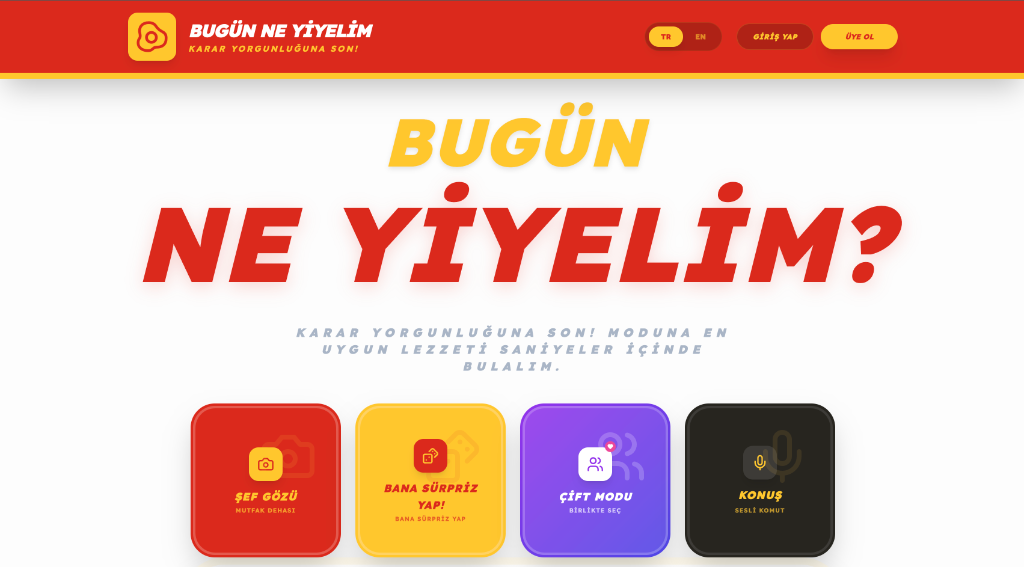
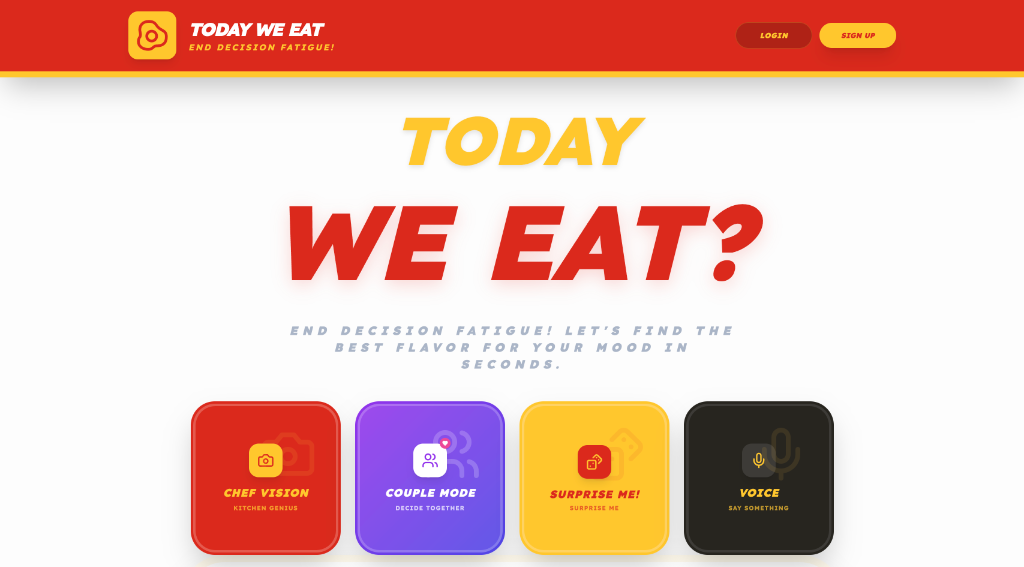
Update Bugun Ne Yiyelim assets and move to bottom

diff --git a/projects.html b/projects.html
@@ -114,98 +114,7 @@
             <p class="text-gray-400 max-w-xl mx-auto">CASE STUDIES</p>
         </div>
 
-        <!-- FEATURED PROJECT: Bugün Ne Yiyelim? -->
-        <div class="w-full max-w-6xl text-center md:text-left mb-24">
-            <div class="grid grid-cols-1 md:grid-cols-12 gap-6">
 
-                <!-- Project Info & Case Study -->
-                <div
-                    class="order-2 md:order-1 col-span-1 md:col-span-5 crystal-panel p-8 md:p-10 rounded-3xl flex flex-col justify-between hover:border-taurusGold/40 transition-colors duration-300 group relative overflow-hidden">
-                    <!-- Decorative Background -->
-                    <div
-                        class="absolute top-0 right-0 w-40 h-40 bg-red-500/5 blur-[60px] rounded-full group-hover:bg-red-500/10 transition-all duration-500">
-                    </div>
-
-                    <div>
-                        <h3 class="font-display text-2xl md:text-3xl font-bold text-white mb-2 leading-tight">
-                            Bugün Ne <br> Yiyelim?
-                        </h3>
-                        <p class="text-gray-500 text-xs font-bold uppercase tracking-wider mb-6">AI-Powered Food Decider
-                        </p>
-
-                        <p class="text-gray-400 text-sm leading-relaxed mb-8">
-                            Karar yorgunluğuna son! Moduna en uygun lezzeti saniyeler içinde bulalim.
-                        </p>
-
-                        <!-- Case Study Mini-Grid -->
-                        <div class="space-y-4 border-t border-white/5 pt-6">
-                            <div>
-                                <h4 class="text-taurusGold text-[10px] font-bold uppercase mb-1">Challenge</h4>
-                                <p class="text-gray-500 text-[11px] leading-snug">Overcoming daily decision fatigue when
-                                    choosing what to eat.</p>
-                            </div>
-                            <div>
-                                <h4 class="text-taurusGold text-[10px] font-bold uppercase mb-1">Solution</h4>
-                                <p class="text-gray-500 text-[11px] leading-snug">AI-driven recommendation engine
-                                    personalized to user mood.</p>
-                            </div>
-                            <div>
-                                <h4 class="text-taurusGold text-[10px] font-bold uppercase mb-1">Result</h4>
-                                <p class="text-gray-500 text-[11px] leading-snug">Instant, stress-free meal decisions
-                                    tailored to the moment.</p>
-                            </div>
-                        </div>
-                    </div>
-
-                    <div class="mt-8 pt-6 border-t border-white/5">
-                        <a href="#"
-                            class="inline-flex items-center gap-2 text-white text-xs font-bold uppercase tracking-wider hover:text-taurusGold transition-colors">
-                            View Project <i data-lucide="arrow-right" class="w-4 h-4"></i>
-                        </a>
-                    </div>
-                </div>
-
-                <!-- Project Visual (Mockup) -->
-                <div
-                    class="order-1 md:order-2 col-span-1 md:col-span-7 crystal-panel p-8 rounded-3xl relative overflow-hidden group hover:border-taurusGold/40 transition-colors duration-300 flex items-center justify-center bg-gradient-to-br from-gray-900 to-black">
-                    <!-- Abstract Laptop Visual -->
-                    <a href="#" class="contents">
-                        <div
-                            class="relative w-[340px] h-[200px] md:w-[480px] md:h-[280px] transition-transform duration-700 group-hover:scale-105 cursor-pointer">
-                            <!-- Screen -->
-                            <div
-                                class="absolute inset-0 bg-gray-800 rounded-lg border border-gray-700 shadow-2xl overflow-hidden flex flex-col">
-                                <div
-                                    class="h-6 bg-gray-900 flex items-center px-3 space-x-1.5 border-b border-gray-700">
-                                    <div class="w-2 h-2 rounded-full bg-red-500"></div>
-                                    <div class="w-2 h-2 rounded-full bg-yellow-500"></div>
-                                    <div class="w-2 h-2 rounded-full bg-green-500"></div>
-                                </div>
-                                <div
-                                    class="flex-1 bg-gray-900 relative flex items-center justify-center overflow-hidden">
-                                    <img src="assets/bugun-desktop.png" alt="Bugün Ne Yiyelim Desktop"
-                                        class="w-full h-full object-cover object-top opacity-90 transition-opacity duration-500 group-hover:opacity-100">
-                                </div>
-                            </div>
-                            <!-- Base -->
-                            <div
-                                class="absolute -bottom-4 left-1/2 -translate-x-1/2 w-[110%] h-4 bg-gray-800 rounded-b-xl shadow-xl">
-                            </div>
-
-                            <!-- Mobile Floating -->
-                            <div
-                                class="absolute -bottom-6 -right-8 w-[100px] h-[180px] bg-gray-800 rounded-xl border border-gray-700 shadow-2xl transform rotate-[-5deg] group-hover:rotate-0 transition-transform duration-500 delay-100 flex flex-col p-1 z-20">
-                                <div class="flex-1 bg-black rounded-lg overflow-hidden relative">
-                                    <img src="assets/bugun-mobile.png" alt="Bugün Ne Yiyelim Mobile"
-                                        class="w-full h-full object-cover object-top opacity-90 transition-opacity duration-500 group-hover:opacity-100">
-                                </div>
-                            </div>
-                        </div>
-                    </a>
-                </div>
-
-            </div>
-        </div>
 
         <!-- FEATURED PROJECT: Elite Body Protocol -->
         <div class="w-full max-w-6xl text-center md:text-left mb-24">
@@ -407,6 +316,100 @@
         </div>
 
 
+
+
+        <!-- FEATURED PROJECT: Today We Eat -->
+        <div class="w-full max-w-6xl text-center md:text-left mt-24">
+            <div class="grid grid-cols-1 md:grid-cols-12 gap-6">
+
+                <!-- Project Info & Case Study -->
+                <div
+                    class="order-2 md:order-1 col-span-1 md:col-span-5 crystal-panel p-8 md:p-10 rounded-3xl flex flex-col justify-between hover:border-taurusGold/40 transition-colors duration-300 group relative overflow-hidden">
+                    <!-- Decorative Background -->
+                    <div
+                        class="absolute top-0 right-0 w-40 h-40 bg-red-500/5 blur-[60px] rounded-full group-hover:bg-red-500/10 transition-all duration-500">
+                    </div>
+
+                    <div>
+                        <h3 class="font-display text-2xl md:text-3xl font-bold text-white mb-2 leading-tight">
+                            Today We <br> Eat
+                        </h3>
+                        <p class="text-gray-500 text-xs font-bold uppercase tracking-wider mb-6">AI-Powered Food Decider
+                        </p>
+
+                        <p class="text-gray-400 text-sm leading-relaxed mb-8">
+                            End decision fatigue! Let’s find the best flavor for your mood in seconds.
+                        </p>
+
+                        <!-- Case Study Mini-Grid -->
+                        <div class="space-y-4 border-t border-white/5 pt-6">
+                            <div>
+                                <h4 class="text-taurusGold text-[10px] font-bold uppercase mb-1">Challenge</h4>
+                                <p class="text-gray-500 text-[11px] leading-snug">Overcoming daily decision fatigue when
+                                    choosing what to eat.</p>
+                            </div>
+                            <div>
+                                <h4 class="text-taurusGold text-[10px] font-bold uppercase mb-1">Solution</h4>
+                                <p class="text-gray-500 text-[11px] leading-snug">AI-driven recommendation engine
+                                    personalized to user mood.</p>
+                            </div>
+                            <div>
+                                <h4 class="text-taurusGold text-[10px] font-bold uppercase mb-1">Result</h4>
+                                <p class="text-gray-500 text-[11px] leading-snug">Instant, stress-free meal decisions
+                                    tailored to the moment.</p>
+                            </div>
+                        </div>
+                    </div>
+
+                    <div class="mt-8 pt-6 border-t border-white/5">
+                        <a href="#"
+                            class="inline-flex items-center gap-2 text-white text-xs font-bold uppercase tracking-wider hover:text-taurusGold transition-colors">
+                            View Project <i data-lucide="arrow-right" class="w-4 h-4"></i>
+                        </a>
+                    </div>
+                </div>
+
+                <!-- Project Visual (Mockup) -->
+                <div
+                    class="order-1 md:order-2 col-span-1 md:col-span-7 crystal-panel p-8 rounded-3xl relative overflow-hidden group hover:border-taurusGold/40 transition-colors duration-300 flex items-center justify-center bg-gradient-to-br from-gray-900 to-black">
+                    <!-- Abstract Laptop Visual -->
+                    <a href="#" class="contents">
+                        <div
+                            class="relative w-[340px] h-[200px] md:w-[480px] md:h-[280px] transition-transform duration-700 group-hover:scale-105 cursor-pointer">
+                            <!-- Screen -->
+                            <div
+                                class="absolute inset-0 bg-gray-800 rounded-lg border border-gray-700 shadow-2xl overflow-hidden flex flex-col">
+                                <div
+                                    class="h-6 bg-gray-900 flex items-center px-3 space-x-1.5 border-b border-gray-700">
+                                    <div class="w-2 h-2 rounded-full bg-red-500"></div>
+                                    <div class="w-2 h-2 rounded-full bg-yellow-500"></div>
+                                    <div class="w-2 h-2 rounded-full bg-green-500"></div>
+                                </div>
+                                <div
+                                    class="flex-1 bg-gray-900 relative flex items-center justify-center overflow-hidden">
+                                    <img src="assets/bugun-desktop.png" alt="Today We Eat Desktop"
+                                        class="w-full h-full object-cover object-top opacity-90 transition-opacity duration-500 group-hover:opacity-100">
+                                </div>
+                            </div>
+                            <!-- Base -->
+                            <div
+                                class="absolute -bottom-4 left-1/2 -translate-x-1/2 w-[110%] h-4 bg-gray-800 rounded-b-xl shadow-xl">
+                            </div>
+
+                            <!-- Mobile Floating -->
+                            <div
+                                class="absolute -bottom-6 -right-8 w-[100px] h-[180px] bg-gray-800 rounded-xl border border-gray-700 shadow-2xl transform rotate-[-5deg] group-hover:rotate-0 transition-transform duration-500 delay-100 flex flex-col p-1 z-20">
+                                <div class="flex-1 bg-black rounded-lg overflow-hidden relative">
+                                    <img src="assets/bugun-mobile.png" alt="Today We Eat Mobile"
+                                        class="w-full h-full object-cover object-top opacity-90 transition-opacity duration-500 group-hover:opacity-100">
+                                </div>
+                            </div>
+                        </div>
+                    </a>
+                </div>
+
+            </div>
+        </div>
 
     </main>
 
